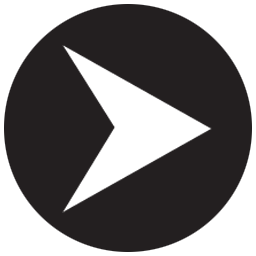
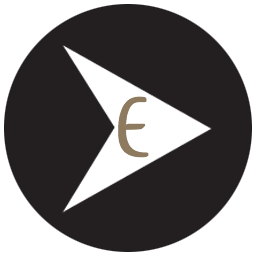
compass direction to arrows, new title.png and title in index.html for The Idol Of Doom

Changed region(s): [[0.4375, 0.375, 0.5938, 0.625]]

diff --git a/index.html b/index.html
@@ -5,7 +5,7 @@
     <link href="css/styles.css" rel="stylesheet" type="text/css">
     <script src="js/jquery-3.0.0.js"></script>
     <script src="js/scripts.js"></script>
-    <title>Save Yourself!</title>
+    <title>The Idol Of Doom!</title>
   </head>
   <body>
     <div class="container">
